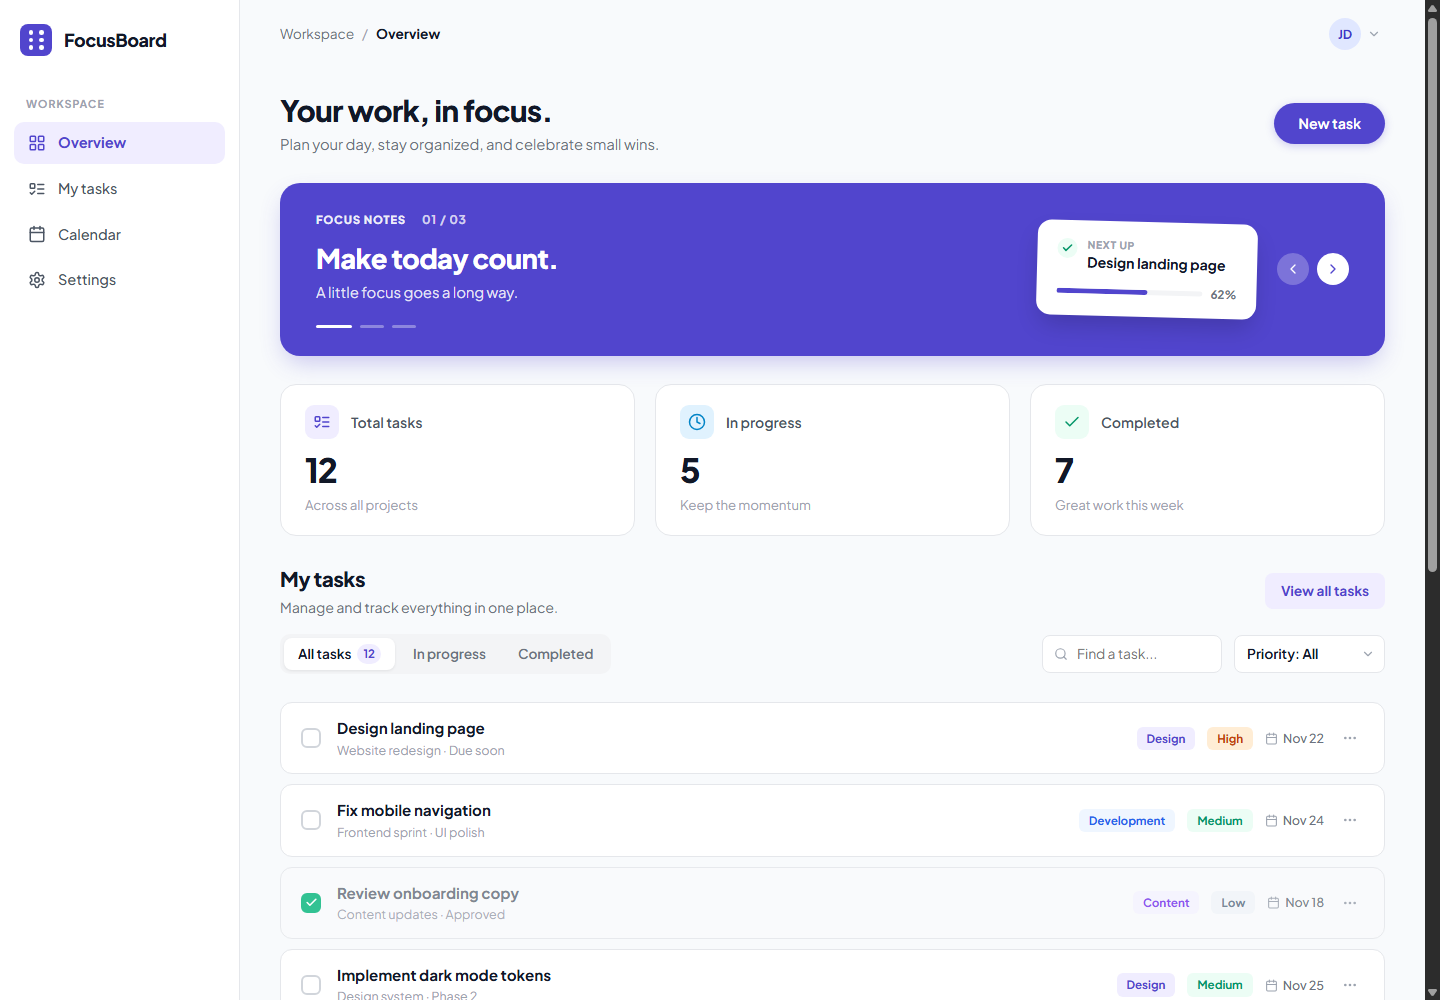
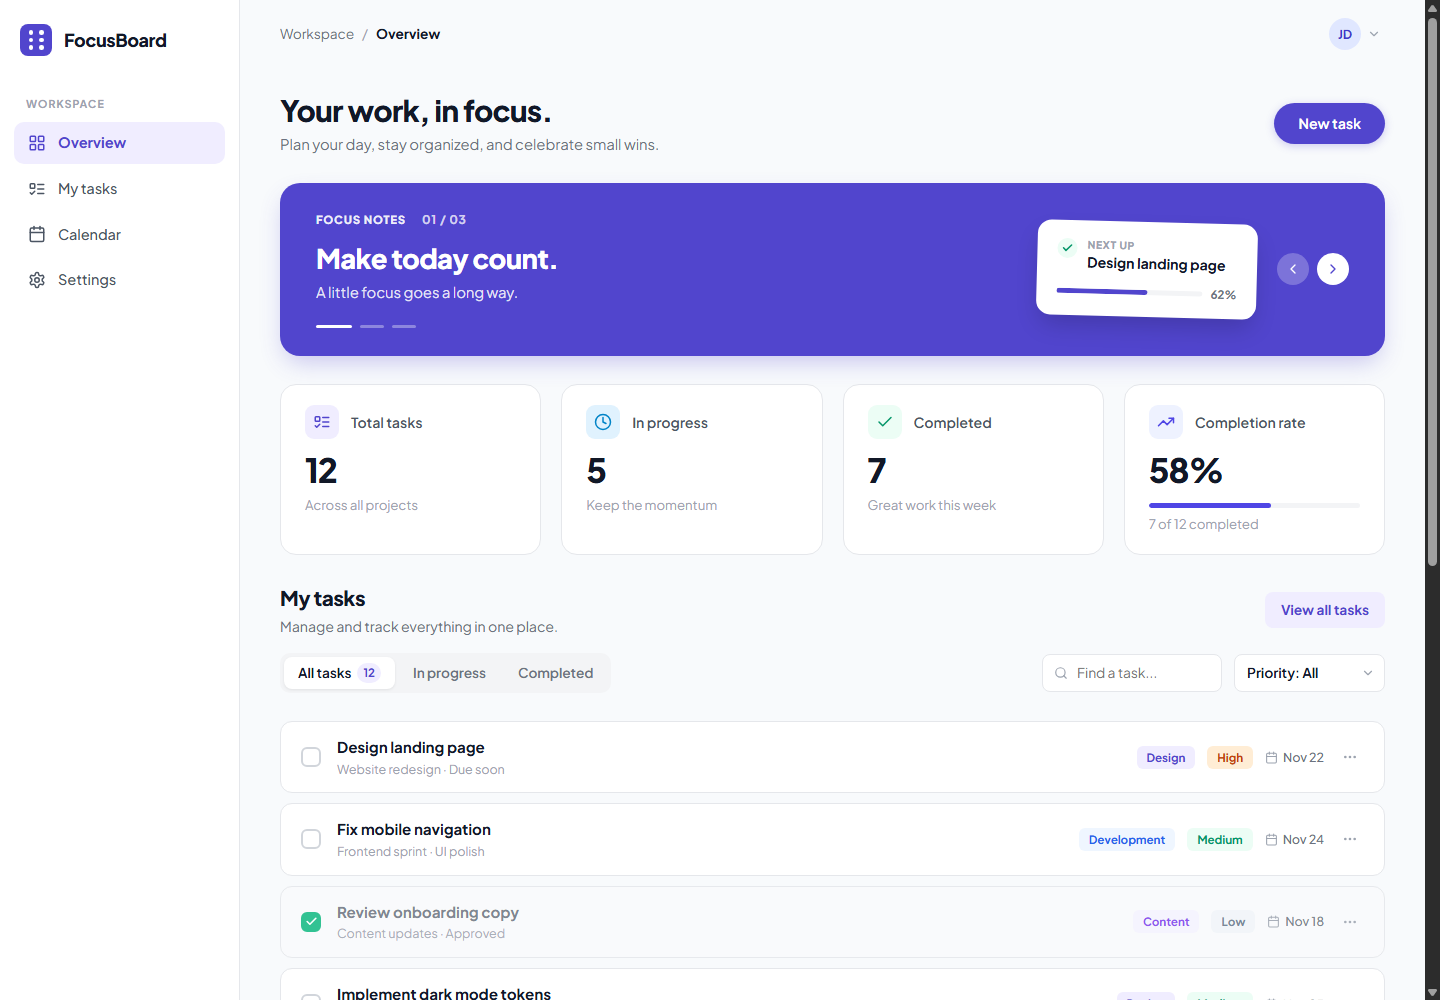
feat(Step-6): implement 4 dynamic dashboard stat cards with completion percentage and division-by-zero safeguard

diff --git a/src/components/StatCard.jsx b/src/components/StatCard.jsx
@@ -1,11 +1,29 @@
 import React from 'react';
 
 /**
- * Overview Stat Card matching Figma design
+ * Reusable StatCard component for displaying key task statistics (Step 6)
+ * Accepts:
+ * - title: string (e.g. "Total tasks", "In progress", "Completed", "Completion rate")
+ * - value: number | string (e.g. 12, 5, 7, "58%")
+ * - subtitle: string (e.g. "Across all projects")
+ * - icon: Icon component (from lucide-react)
+ * - theme: string ("purple" | "cyan" | "green" | "indigo")
+ * - progress: number (optional percentage 0-100 for visual progress bar)
  */
-export function StatCard({ title, value, subtitle, icon: Icon, theme = "purple" }) {
+export function StatCard({
+  title,
+  value,
+  subtitle,
+  icon: Icon,
+  theme = "purple",
+  progress
+}) {
   return (
-    <div className={`stat-card stat-card--${theme}`} role="region" aria-label={title}>
+    <div
+      className={`stat-card stat-card--${theme}`}
+      role="region"
+      aria-label={`${title}: ${value}`}
+    >
       <div className="stat-card__top">
         <div className={`stat-card__icon-box stat-card__icon-box--${theme}`}>
           <Icon size={18} aria-hidden="true" />
@@ -17,7 +35,18 @@ export function StatCard({ title, value, subtitle, icon: Icon, theme = "purple" 
         <span className="stat-card__number">{value}</span>
       </div>
 
-      <p className="stat-card__subtitle">{subtitle}</p>
+      {typeof progress === 'number' && (
+        <div className="stat-card__progress-container" aria-hidden="true">
+          <div className="stat-card__progress-bar">
+            <div
+              className={`stat-card__progress-fill stat-card__progress-fill--${theme}`}
+              style={{ width: `${Math.min(100, Math.max(0, progress))}%` }}
+            />
+          </div>
+        </div>
+      )}
+
+      {subtitle && <p className="stat-card__subtitle">{subtitle}</p>}
     </div>
   );
 }

diff --git a/src/index.css b/src/index.css
@@ -549,7 +549,7 @@ button {
 
 .overview-stats-grid {
   display: grid;
-  grid-template-columns: repeat(3, 1fr);
+  grid-template-columns: repeat(4, 1fr);
   gap: 20px;
 }
 
@@ -597,6 +597,45 @@ button {
 .stat-card__icon-box--green {
   background-color: #ecfdf5;
   color: #059669;
+}
+
+.stat-card__icon-box--indigo {
+  background-color: #eef2ff;
+  color: #4f46e5;
+}
+
+.stat-card__progress-container {
+  margin: 8px 0 6px;
+}
+
+.stat-card__progress-bar {
+  width: 100%;
+  height: 5px;
+  background-color: #f3f4f6;
+  border-radius: 9999px;
+  overflow: hidden;
+}
+
+.stat-card__progress-fill {
+  height: 100%;
+  border-radius: 9999px;
+  transition: width 0.3s ease;
+}
+
+.stat-card__progress-fill--purple {
+  background-color: var(--primary-purple);
+}
+
+.stat-card__progress-fill--cyan {
+  background-color: #0284c7;
+}
+
+.stat-card__progress-fill--green {
+  background-color: #059669;
+}
+
+.stat-card__progress-fill--indigo {
+  background-color: #4f46e5;
 }
 
 .stat-card__title {
@@ -1563,14 +1602,10 @@ button {
     display: block;
   }
 
-  /* 2 stat cards on mobile matching Figma: Total tasks and Completed */
+  /* Stat cards on mobile: clean 2x2 grid */
   .overview-stats-grid {
     grid-template-columns: 1fr 1fr;
     gap: 12px;
-  }
-
-  .overview-stats-grid .stat-card:nth-child(2) {
-    display: none; /* Hide 'In progress' on mobile to match the 2-column Figma mobile frame */
   }
 
   .stat-card {

diff --git a/src/App.jsx b/src/App.jsx
@@ -3,6 +3,7 @@ import {
   ListTodo,
   Clock,
   Check,
+  TrendingUp,
   LayoutGrid,
   Calendar,
   Settings
@@ -36,7 +37,7 @@ export function App() {
   const [editingTask, setEditingTask] = useState(null);
   const [deletingTask, setDeletingTask] = useState(null);
 
-  // Dynamic Statistics
+  // Dynamic Statistics (Step 6: Total, In progress, Completed, and Completion %)
   const totalTasks = tasks.length;
   const inProgressCount = useMemo(
     () => tasks.filter((t) => t.status === 'In progress').length,
@@ -46,6 +47,9 @@ export function App() {
     () => tasks.filter((t) => t.status === 'Completed').length,
     [tasks]
   );
+  const completionPercentage = useMemo(() => {
+    return totalTasks > 0 ? Math.round((completedCount / totalTasks) * 100) : 0;
+  }, [totalTasks, completedCount]);
 
   // Filtered tasks computation
   const filteredTasks = useMemo(() => {
@@ -175,6 +179,14 @@ export function App() {
                 subtitle="Great work this week"
                 icon={Check}
                 theme="green"
+              />
+              <StatCard
+                title="Completion rate"
+                value={`${completionPercentage}%`}
+                subtitle={`${completedCount} of ${totalTasks} completed`}
+                icon={TrendingUp}
+                theme="indigo"
+                progress={completionPercentage}
               />
             </div>
           </section>
